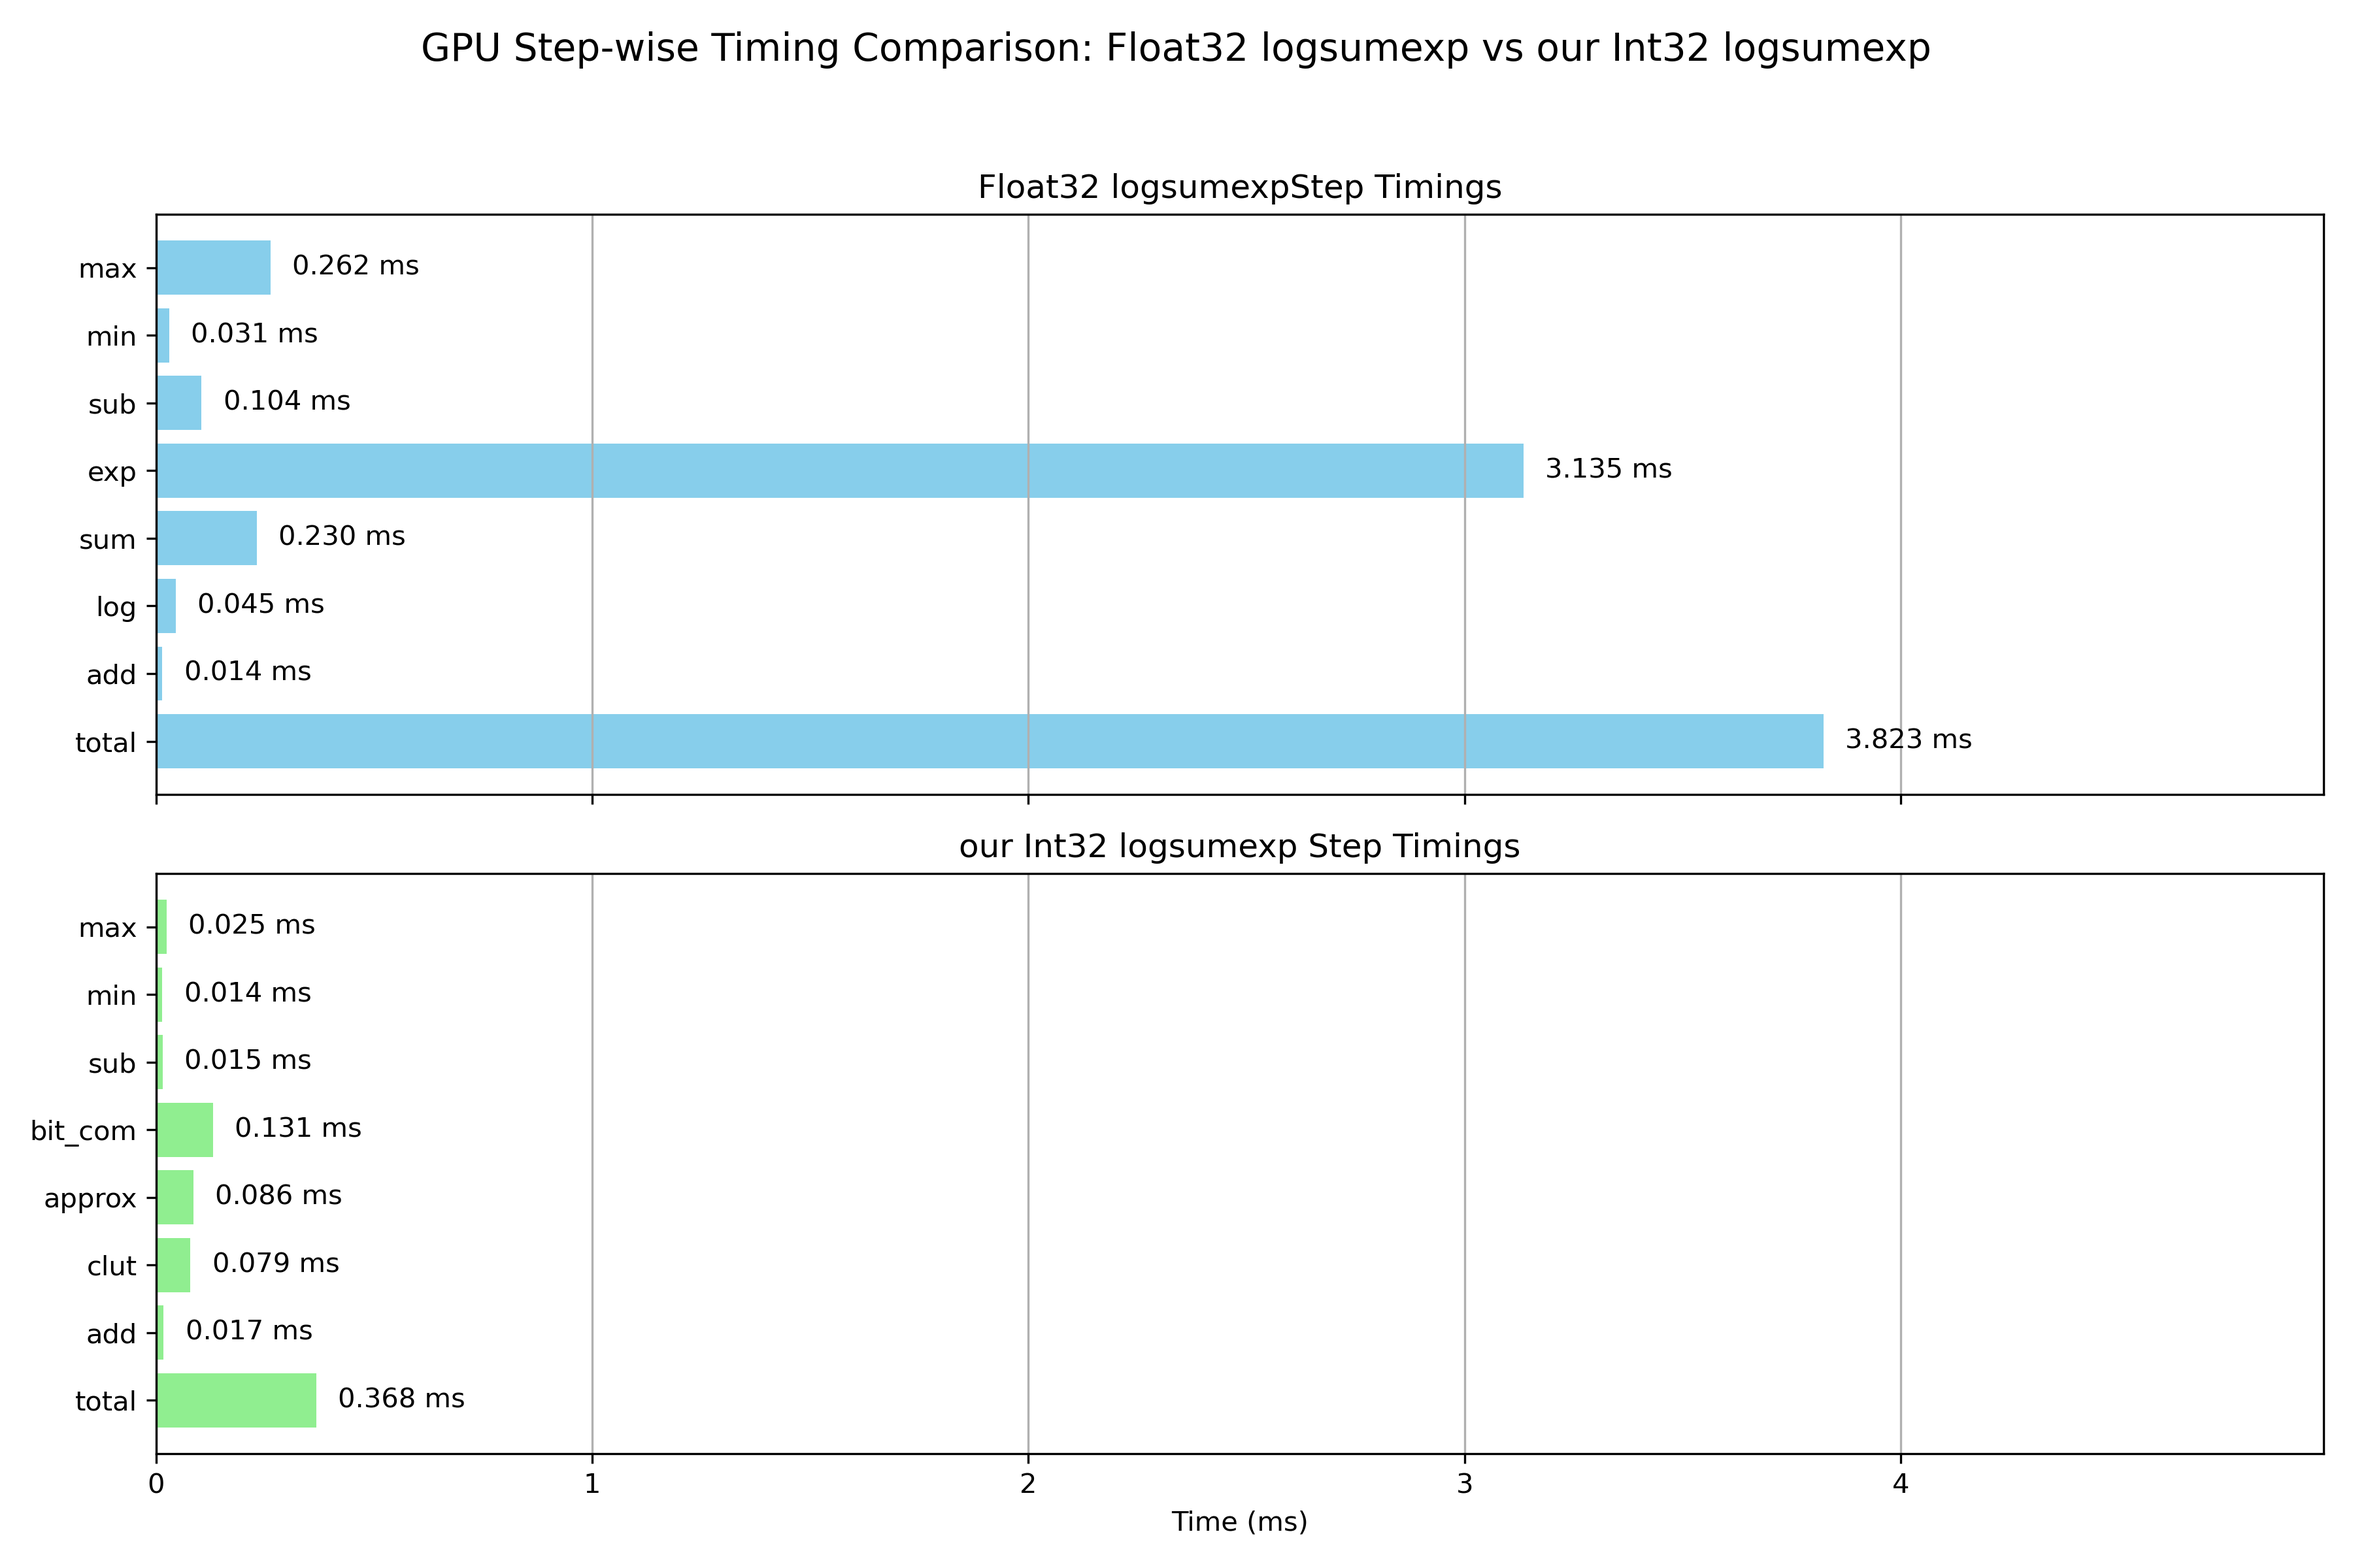
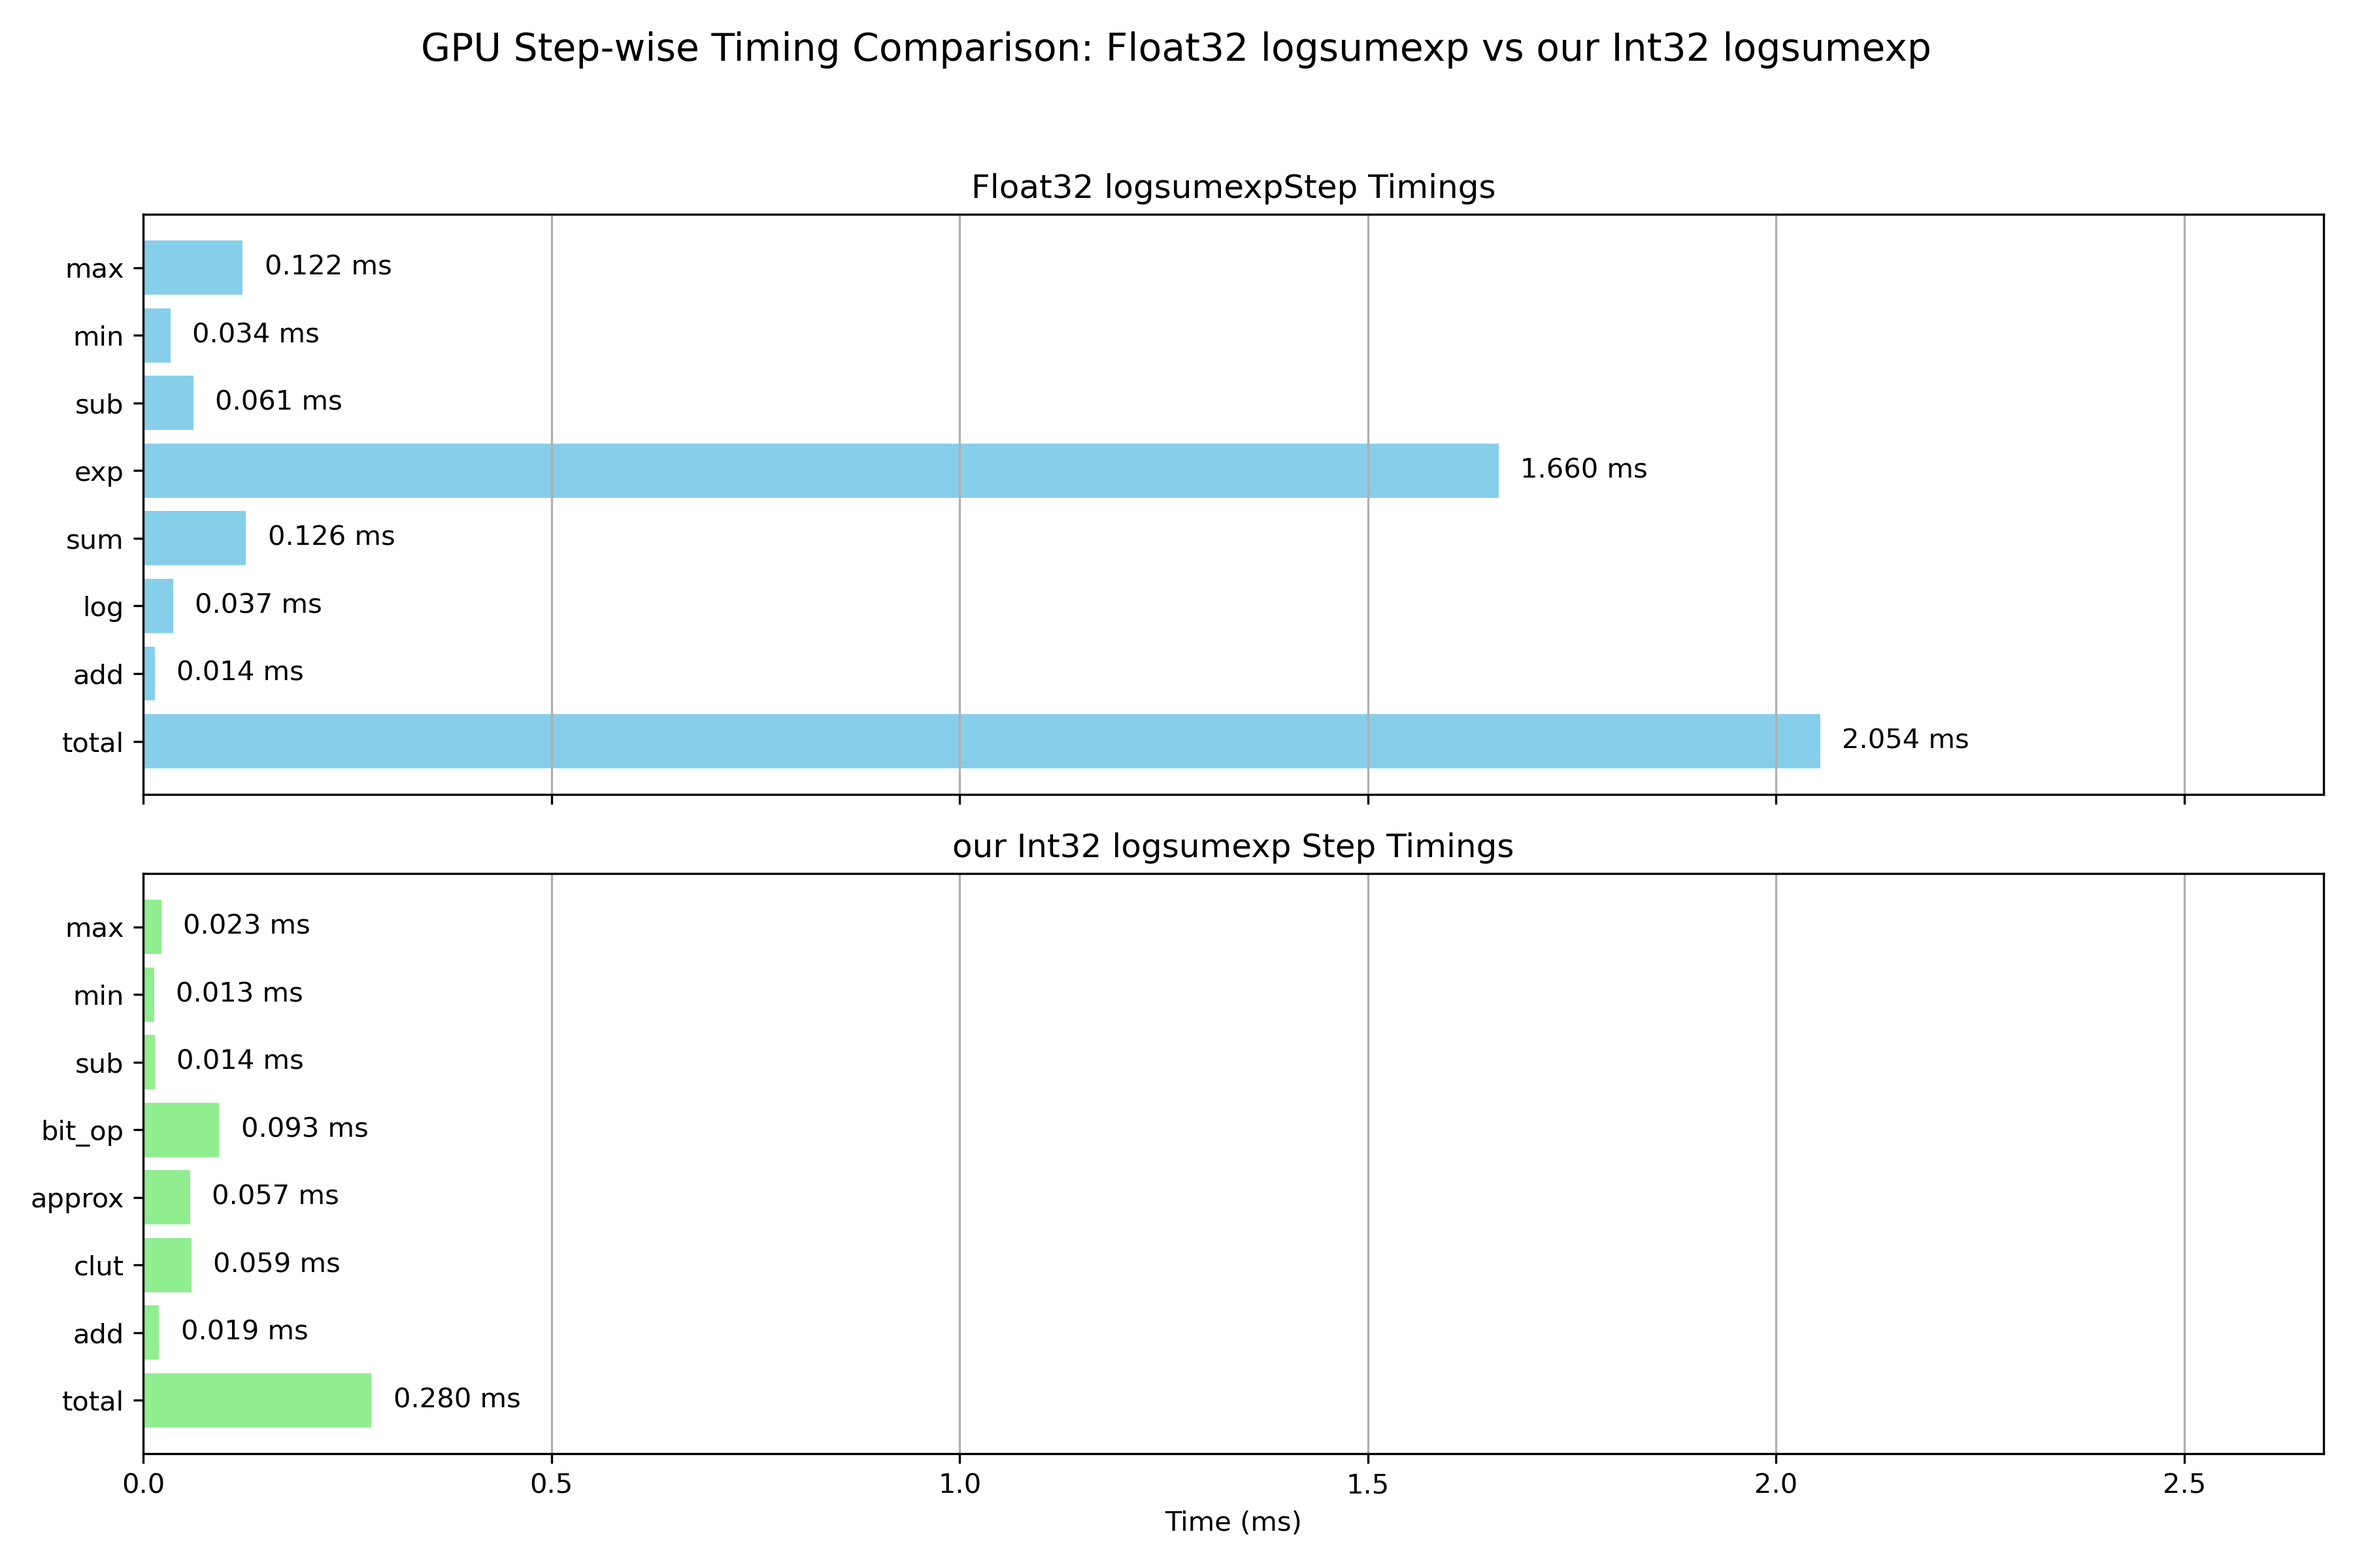
updated results

diff --git a/gpu_time.py b/gpu_time.py
@@ -18,7 +18,7 @@ def measure_op_cuda(op, runs=1):
         op()
     end.record()
     torch.cuda.synchronize()
-    return start.elapsed_time(end) / runs  # ms
+    return start.elapsed_time(end)   # ms
 
 # GPU warm-up
 def warm_up_gpu(x, y, rounds=10):
@@ -36,19 +36,18 @@ def logsumexp_shape_preserving_gpu(x, y):
     max_xy = torch.maximum(x, y)
     timings['min'] = measure_op_cuda(lambda: torch.minimum(x, y))
     min_xy = torch.minimum(x, y)
-    timings['sub'] = measure_op_cuda(lambda: min_xy - max_xy)
-    sub = min_xy - max_xy
+    timings['sub'] = measure_op_cuda(lambda: torch.sub(min_xy, max_xy))
+    sub = torch.sub(min_xy, max_xy)
     timings['exp'] = measure_op_cuda(lambda: torch.exp(sub))
     exp_sub = torch.exp(sub)
-    timings['sum'] = measure_op_cuda(lambda: exp_sub + 1.0)
-    sum_exp = exp_sub + 1.0
+    timings['sum'] = measure_op_cuda(lambda: torch.add(exp_sub, 1.0))
+    sum_exp = torch.add(exp_sub, 1.0)
     timings['log'] = measure_op_cuda(lambda: torch.log(sum_exp))
     log_sum = torch.log(sum_exp)
-    timings['add'] = measure_op_cuda(lambda: max_xy + log_sum)
-    timings['total'] = (
-        timings['max'] + timings['min'] + timings['sub'] +timings['exp'] + timings['sum'] + timings['log'] + timings['add']
-    )
-    return max_xy + log_sum, timings
+    timings['add'] = measure_op_cuda(lambda: torch.add(max_xy, log_sum))
+    result=torch.add(max_xy, log_sum)
+    timings['total'] = timings['max'] + timings['min'] + timings['sub'] + timings['exp'] + timings['sum'] + timings['log'] + timings['add']
+    return result, timings
 
 # Integer LogSumExp approximation (GPU)
 def lse_pe_int_gpu(x: torch.Tensor, y: torch.Tensor):
@@ -57,9 +56,9 @@ def lse_pe_int_gpu(x: torch.Tensor, y: torch.Tensor):
     x_max = torch.maximum(x, y)
     timings['min'] = measure_op_cuda(lambda: torch.minimum(x, y))
     y_min = torch.minimum(x, y)
-    timings['sub'] = measure_op_cuda(lambda: y_min - x_max)
-    sub = y_min - x_max
-    timings['bit_com'] = measure_op_cuda(lambda: (sub >> FRAC_BITS, sub & FRAC_MASK))
+    timings['sub'] = measure_op_cuda(lambda:  torch.sub(y_min, x_max))
+    sub =  torch.sub(y_min, x_max)
+    timings['bit_op'] = measure_op_cuda(lambda: (sub >> FRAC_BITS, sub & FRAC_MASK))
     I = (sub >> FRAC_BITS).clamp(min=-31, max=0)
     F = sub & FRAC_MASK
     timings['approx'] = measure_op_cuda(lambda: (SCALE + F) >> (-I))
@@ -68,20 +67,20 @@ def lse_pe_int_gpu(x: torch.Tensor, y: torch.Tensor):
     approx = one_plus_F >> shift_amount
     timings['clut'] = measure_op_cuda(lambda: torch.zeros_like(approx))  # placeholder
     correction = torch.zeros_like(approx)
-    timings['add'] = measure_op_cuda(lambda: x_max + approx + correction)
+    timings['add'] = measure_op_cuda(lambda: torch.add(x_max , torch.add(approx , correction)))
+    result=torch.add(x_max , torch.add(approx , correction))
     timings['total'] = (
-        timings['max'] + timings['min'] + timings['sub'] + timings['bit_com'] + timings['approx'] + timings['clut'] + timings['add']
+        timings['max'] + timings['min'] + timings['sub'] + timings['bit_op'] + timings['approx'] + timings['clut'] + timings['add']
     )
-    return x_max + approx + correction, timings
+    return result, timings
 
 trials = 10
 # Lists to store timing data
 float_timings_record = {k: [] for k in ['max', 'min', 'sub', 'exp', 'sum', 'log', 'add', 'total']}
-int_timings_record = {k: [] for k in ['max', 'min', 'sub', 'bit_com', 'approx', 'clut', 'add', 'total']}
+int_timings_record = {k: [] for k in ['max', 'min', 'sub', 'bit_op', 'approx', 'clut', 'add', 'total']}
 # Run trials
 for _ in range(trials):
-    start = torch.cuda.Event(enable_timing=True)
-    end = torch.cuda.Event(enable_timing=True)
+
     # Warm-up
     # Generate random inputs
     xf = torch.rand(1, dtype=torch.float32)

diff --git a/cpu_time.py b/cpu_time.py
@@ -17,7 +17,7 @@ def measure_op(op, runs=1):
         op()
     end.record()
     torch.cuda.synchronize()
-    return start.elapsed_time(end) / runs  # ms
+    return start.elapsed_time(end)   # ms
 
 # Warm-up functions
 def warm_up_cpu(x, y, rounds=1):
@@ -35,17 +35,18 @@ def logsumexp_shape_preserving_cpu(x, y):
     max_xy = torch.maximum(x, y)
     timings['min'] = measure_op(lambda: torch.minimum(x, y))
     min_xy = torch.minimum(x, y)
-    timings['sub'] = measure_op(lambda: min_xy - max_xy)
-    sub = min_xy - max_xy
+    timings['sub'] = measure_op(lambda: torch.sub(min_xy, max_xy))
+    sub = torch.sub(min_xy, max_xy)
     timings['exp'] = measure_op(lambda: torch.exp(sub))
     exp_sub = torch.exp(sub)
-    timings['sum'] = measure_op(lambda: exp_sub + 1.0)
-    sum_exp = exp_sub + 1.0
+    timings['sum'] = measure_op(lambda: torch.add(exp_sub, 1.0))
+    sum_exp = torch.add(exp_sub, 1.0)
     timings['log'] = measure_op(lambda: torch.log(sum_exp))
     log_sum = torch.log(sum_exp)
-    timings['add'] = measure_op(lambda: max_xy + log_sum)
+    timings['add'] = measure_op(lambda: torch.add(max_xy, log_sum))
+    result=torch.add(max_xy, log_sum)
     timings['total'] = timings['max'] + timings['min'] + timings['sub'] + timings['exp'] + timings['sum'] + timings['log'] + timings['add']
-    return max_xy + log_sum, timings
+    return result, timings
 
 # Integer LSE
 def lse_pe_int(x: torch.Tensor, y: torch.Tensor):
@@ -54,19 +55,24 @@ def lse_pe_int(x: torch.Tensor, y: torch.Tensor):
     x_max = torch.maximum(x, y)
     timings['min'] = measure_op(lambda: torch.minimum(x, y))
     y_min = torch.minimum(x, y)
-    timings['sub'] = measure_op(lambda: y_min - x_max)
-    sub = y_min - x_max
+    timings['sub'] = measure_op(lambda: torch.sub(y_min, x_max))
+    sub = torch.sub(y_min, x_max)
+    # Bit operations using PyTorch
     timings['bit_op'] = measure_op(lambda: (sub >> FRAC_BITS, sub & FRAC_MASK))
     I = (sub >> FRAC_BITS).clamp(min=-31, max=0)
     F = sub & FRAC_MASK
     timings['approx'] = measure_op(lambda: (SCALE + F) >> (-I))
     one_plus_F = SCALE + F
-    approx = one_plus_F >> (-I)
+    shift_amount = -I
+    approx = one_plus_F >> shift_amount
     timings['clut'] = measure_op(lambda: torch.zeros_like(approx))  
     correction = torch.zeros_like(approx)
-    timings['add'] = measure_op(lambda: x_max + approx + correction)
-    timings['total'] = timings['max'] + timings['min'] + timings['sub'] + timings['bit_op'] + timings['approx'] + timings['clut'] + timings['add']
-    return x_max + approx + correction, timings
+    timings['add'] = measure_op(lambda: torch.add(x_max , torch.add(approx , correction)))
+    result=torch.add(x_max , torch.add(approx , correction))
+    timings['total'] = (
+        timings['max'] + timings['min'] + timings['sub'] + timings['bit_op'] + timings['approx'] + timings['clut'] + timings['add']
+    )
+    return result, timings
 
 
 trials = 10
@@ -75,10 +81,6 @@ float_timings_record = {k: [] for k in ['max', 'min', 'sub', 'exp', 'sum', 'log'
 int_timings_record = {k: [] for k in ['max', 'min', 'sub', 'bit_op', 'approx', 'clut', 'add', 'total']}
 # Run trials
 for _ in range(trials):
-    start = torch.cuda.Event(enable_timing=True)
-    end = torch.cuda.Event(enable_timing=True)
-    # Warm-up
-    # Generate random inputs
     xf = torch.rand(1, dtype=torch.float32)
     yf = torch.rand(1, dtype=torch.float32)
     warm_up_cpu(xf, yf)
